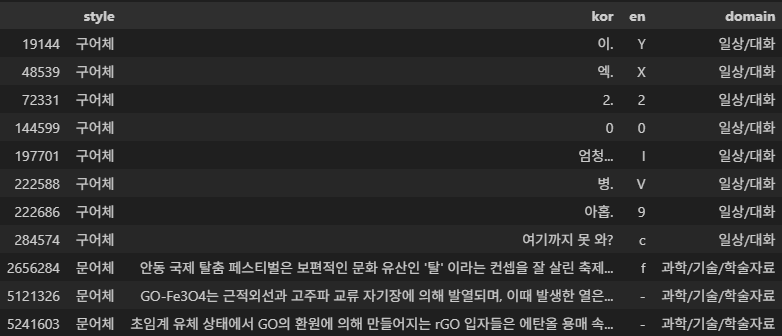
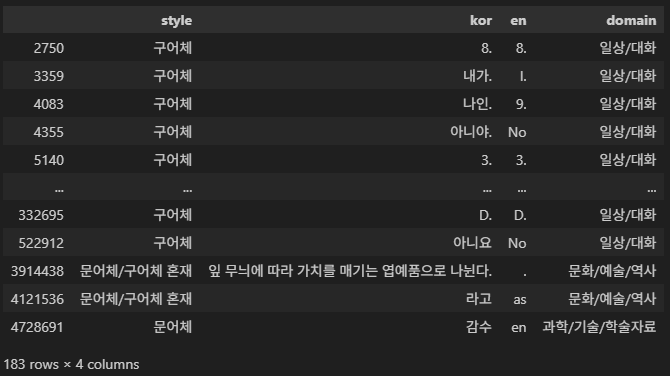
74: update README.md

diff --git a/README.md b/README.md
@@ -130,7 +130,7 @@
 - 처리 후 데이터 수는 **10,740,846**
 
 
-#### 1-2-4. 지나치게 짧거나 긴 문장 처리
+#### 1-2-4. 문장 필터링
 
 | column   |   num_examples |   avg_len |   min_len |   max_len |   p50_len |   p90_len |   p95_len |   p99_len |
 |:---------|---------------:|----------:|----------:|----------:|----------:|----------:|----------:|----------:|
@@ -146,13 +146,46 @@
 ![길이 1인 영어 문장](imgs/en_1.png)
 ![길이 2인 영어 문장](imgs/en_2.png)
 
-한국어, 영어 문장 쌍 중 한 쪽의 문장이 누락되거나, (이. , Y), (엑. , X), (병. , V)와 같이 한글자 한국어 문장의 앞 자음 발음만 번역한 경우 등을 확인  
+한국어, 영어 문장 쌍 중 한 쪽의 문장이 누락되거나, (이. , Y), (엑. , X), (병. , V)와 같이 한글자 한국어 문장의 앞 자음 발음만 번역한 경우 등을 확인
+- 정상 번역 문장도 있고 총 개수가 적으므로 전체 확인 후 이상 문장만 직접 제거
 
-##### 1-2-4-2. 한쪽 언어 문장의 길이가 다른쪽 언어 문장의 길이보다 이상하게 긴 경우 확인
+##### 1-2-4-2. 규칙 기반 필터링
 
-> TODO: 사전식 과번역, 한쪽 언어에 없는 맥락 추가, 대본 지시, 누락, 이상치 예시 이미지 추가
+![사전식 주석](imgs/overtranslation.png)
+![사전식 주석2](imgs/overtranslation2.png)
+![오류](imgs/error_pairs.png)
+![없던 전후 맥락 추가](imgs/extra_contexts.png)
 
-##### 1-2-4-3. 길이가 매우 긴 문장 확인
+한쪽 언어 문장의 길이가 다른쪽 언어 문장의 길이보다 비정상적으로 긴 경우 확인 (5~10배)를 확인  
+- 한국어 문장에는 없는 전후 맥락이 영어 문장 번역에 추가되거나 아예 의미가 다르거나 잘못된 문장이 매치되어 학습 과정에 혼란을 주는 데이터를 확인 가능  
+- 추가로 고유어, 관용어구 등을 번역할 때 발음만 번역한 후에 뜻을 추가로 ()안에 넣거나, 반대로 뜻을 직역한 후 ()안에 발음을 추가하거나 하는 과도한 주석이 추가된 문장도 확인함  
+
+이러한 문장들을 제거하기 위해 규칙 기반 필터링을 수행해 2257개의 문장을 필터링
+- 일반적으로 데이터의 한쪽 언어 문장이 다른 언어 문장보다 5배 이상 긴 경우
+  - 일상/대화 등의 구어체의 경우 정상 번역이지만 영어 문장이 한국어 문장보다 5배 이상 긴 경우가 확인 가능해서 구어체의 경우에는 10배 이상 긴 경우
+  ![정상 번역 예](imgs/high_ratio_but_correct.png)
+  ![정상 번역 예2](imgs/high_ratio_but_correct2.png)
+- 한쪽 문장이 누락되거나, ㅁ, ㅣ, c, \`\`\`\`, 등 기호만 남아 있는 경우
+- (함께), (All together) 같이 대본, 노래 가사 등의 지시어가 있는 경우
+
+> ![필터링 결과 예시](imgs/filtered_ex.png)
+> 필터링 과정에서 정상 문장 데이터도 일부 필터링이 된 것을 확인
+>> (혹시 카탈로그에 있는 매콤달콤 요 뽑기 320 g를 봤나요?	, Have you seen the sweet-and-spicy Yopokki(320g) in the catalog?)
+>> (기존에 부족했던 기능을 보완하여, 중소기업 보안 환경에 맞도록 최적화하였습니다., It has been optimized for small and medium-sized enterprises' (SMEs) security environments by supplementing the lacking functions.)
+
+##### 1-2-4-3. 공백 정규화
+![공백만 다르고 사실상 동일](imgs/weird_spaces.png)
+필터링 확인 과정에서 공백의 종류가 다르거나, 공백이 추가되거나 해서 사실상 같은 문장 쌍이지만 다르게 취급되어 남아 있는 중복들을 발견  
+- 모든 공백을 space 1번으로 통일하고 앞뒤 공백을 삭제 후 중복 제거를 한번 더 시행하여 14521개 데이터를 추가 삭제
+
+##### 1-2-4-4. 특허 분류 삭제, 길이가 매우 긴 문장 삭제
+
+| column   |   num_examples |   avg_len |   min_len |   max_len |   p50_len |   p90_len |   p95_len |   p99_len |
+|:---------|---------------:|----------:|----------:|----------:|----------:|----------:|----------:|----------:|
+| kor      |       10723850 |   74.7413 |         1 |     10044 |        52 |        98 |       117 |       768 |
+| en       |       10723850 |  172.422  |         2 |     10676 |       119 |       242 |       300 |      1755 |
+
+
 
 > TODO: 필터링 전/후 통계 표 추가
 
@@ -162,12 +195,10 @@
 
 실험 결과 비교를 위해 **1M, 10M 모두 동일한 test set을 사용**
 
-- 1M 데이터셋 실험(시드 고정)에서 test split으로 사용된 `(kor, en)` 쌍을 수집
-- 10M 데이터셋에서 동일한 `(kor, en)`이 등장하는 행을 전부 제거
-- 이렇게 만들어진 10M train/dev에서는 1M test와의 데이터 누수를 방지
+- 1M 데이터셋 실험(시드 고정)에서 test split으로 사용된 `(kor, en)` 쌍에 대해  
+10M 데이터셋에서 동일한 `(kor, en)`이 등장하는 행을 전부 제거
 
 > TODO: 1M test와 10M train 간 교집합 개수(제거 전) / 제거 후 결과 보고  
-> TODO: 1M vs 10M 데이터셋에서 동일 test set 기준 BLEU/METEOR/ChrF 비교 그래프 자리 (WandB 스크린샷)
 
 ---
 
